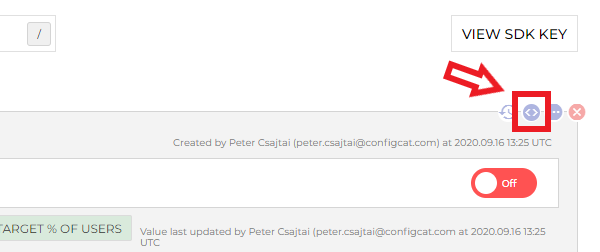
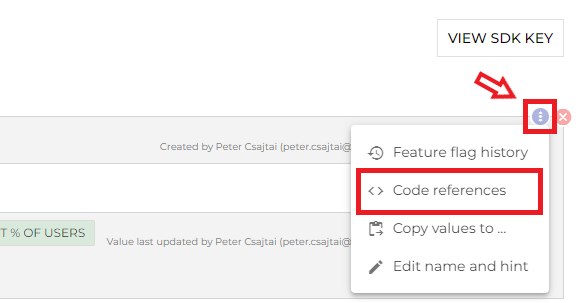
Update ConfigID screenshot for code references (#97)
* Update ConfigID screenshot for code references

* Consolidate code ref titles

Changed region(s): [[0.0, 0.1944, 0.9863, 1.0], [0.7397, 0.0833, 0.9555, 0.1667], [0.0, 0.0556, 0.0925, 0.2222]]

diff --git a/website/docs/advanced/code-references/azure-devops.md b/website/docs/advanced/code-references/azure-devops.md
@@ -1,6 +1,6 @@
 ---
 id: azure-devops
-title: Azure DevOps code references
+title: Azure
 ---
 
 This section describes how to use the [ConfigCat CLI](/docs/advanced/cli) in <a target="_blank" href="https://docs.microsoft.com/en-us/azure/devops/pipelines/?view=azure-devops">Azure DevOps Pipelines</a>

diff --git a/website/docs/advanced/code-references/bitbucket-pipe.md b/website/docs/advanced/code-references/bitbucket-pipe.md
@@ -1,6 +1,6 @@
 ---
 id: bitbucket-pipe
-title: Bitbucket Pipe code references
+title: Bitbucket
 ---
 
 This section describes how to use ConfigCat's <a target="_blank" href="https://bitbucket.org/product/features/pipelines/integrations?p=configcat/scan-repository-pipe">Bitbucket Pipe</a>

diff --git a/website/docs/advanced/code-references/circleci-orb.md b/website/docs/advanced/code-references/circleci-orb.md
@@ -1,6 +1,6 @@
 ---
 id: circleci-orb
-title: CircleCI Orb code references
+title: CircleCI
 ---
 
 This section describes how to use ConfigCat's <a target="_blank" href="https://circleci.com/developer/orbs/orb/configcat/scan-repository">CircleCI Orb</a>

diff --git a/website/docs/advanced/code-references/github-action.md b/website/docs/advanced/code-references/github-action.md
@@ -1,6 +1,6 @@
 ---
 id: github-action
-title: GitHub Action code references
+title: GitHub
 ---
 
 This section describes how to use ConfigCat's <a target="_blank" href="https://github.com/marketplace/actions/configcat-scan-repository">GitHub Action</a>

diff --git a/website/docs/advanced/code-references/gitlab-ci.md b/website/docs/advanced/code-references/gitlab-ci.md
@@ -1,6 +1,6 @@
 ---
 id: gitlab-ci
-title: GitLab CI/CD code references
+title: GitLab
 ---
 
 This section describes how to use the [ConfigCat CLI](/docs/advanced/cli) in <a target="_blank" href="https://docs.gitlab.com/ee/ci/">GitLab CI/CD</a>
